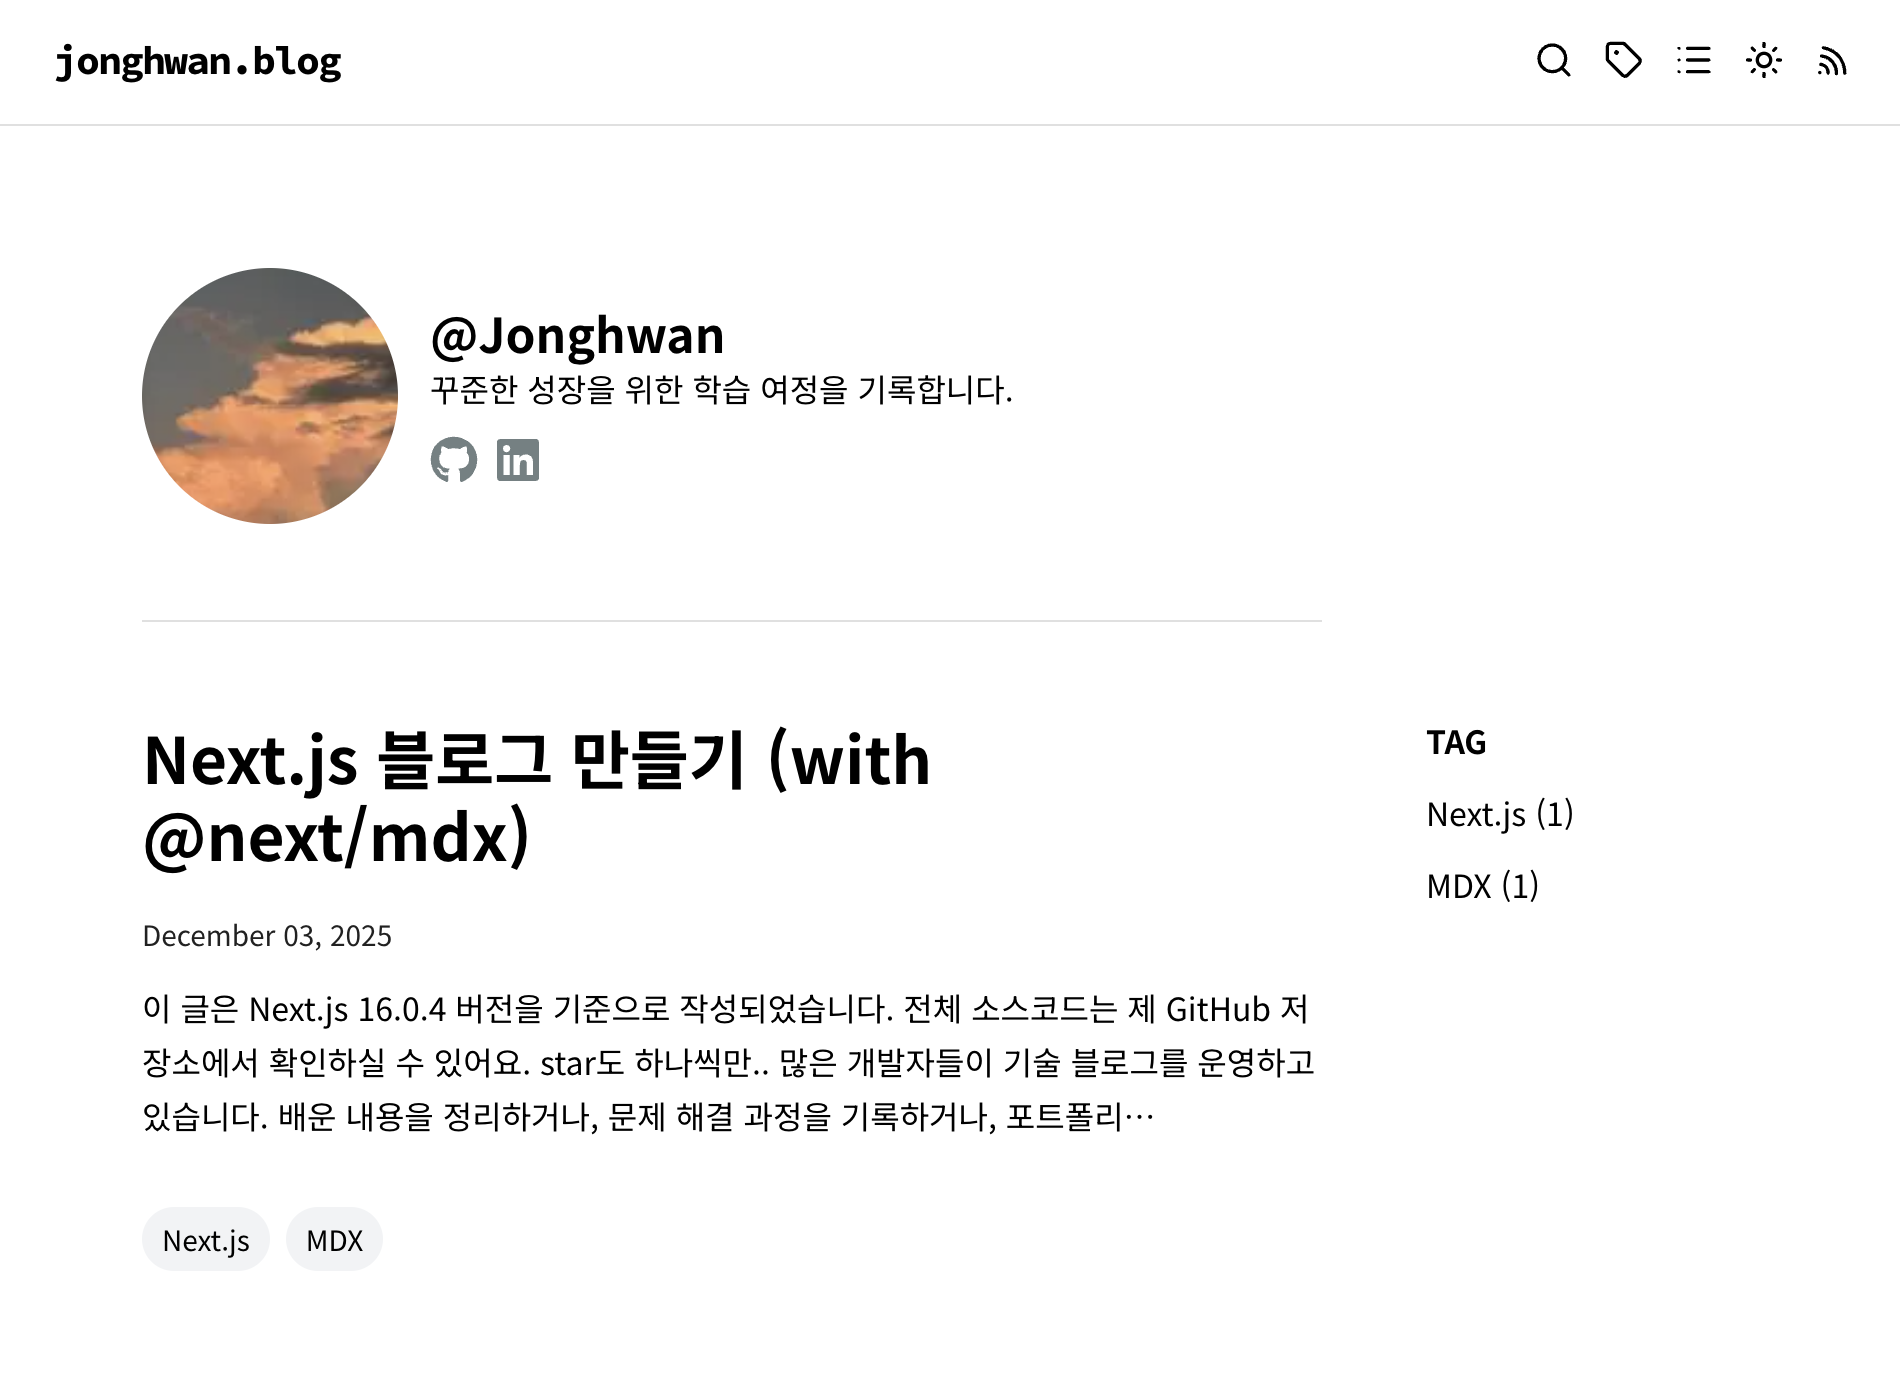
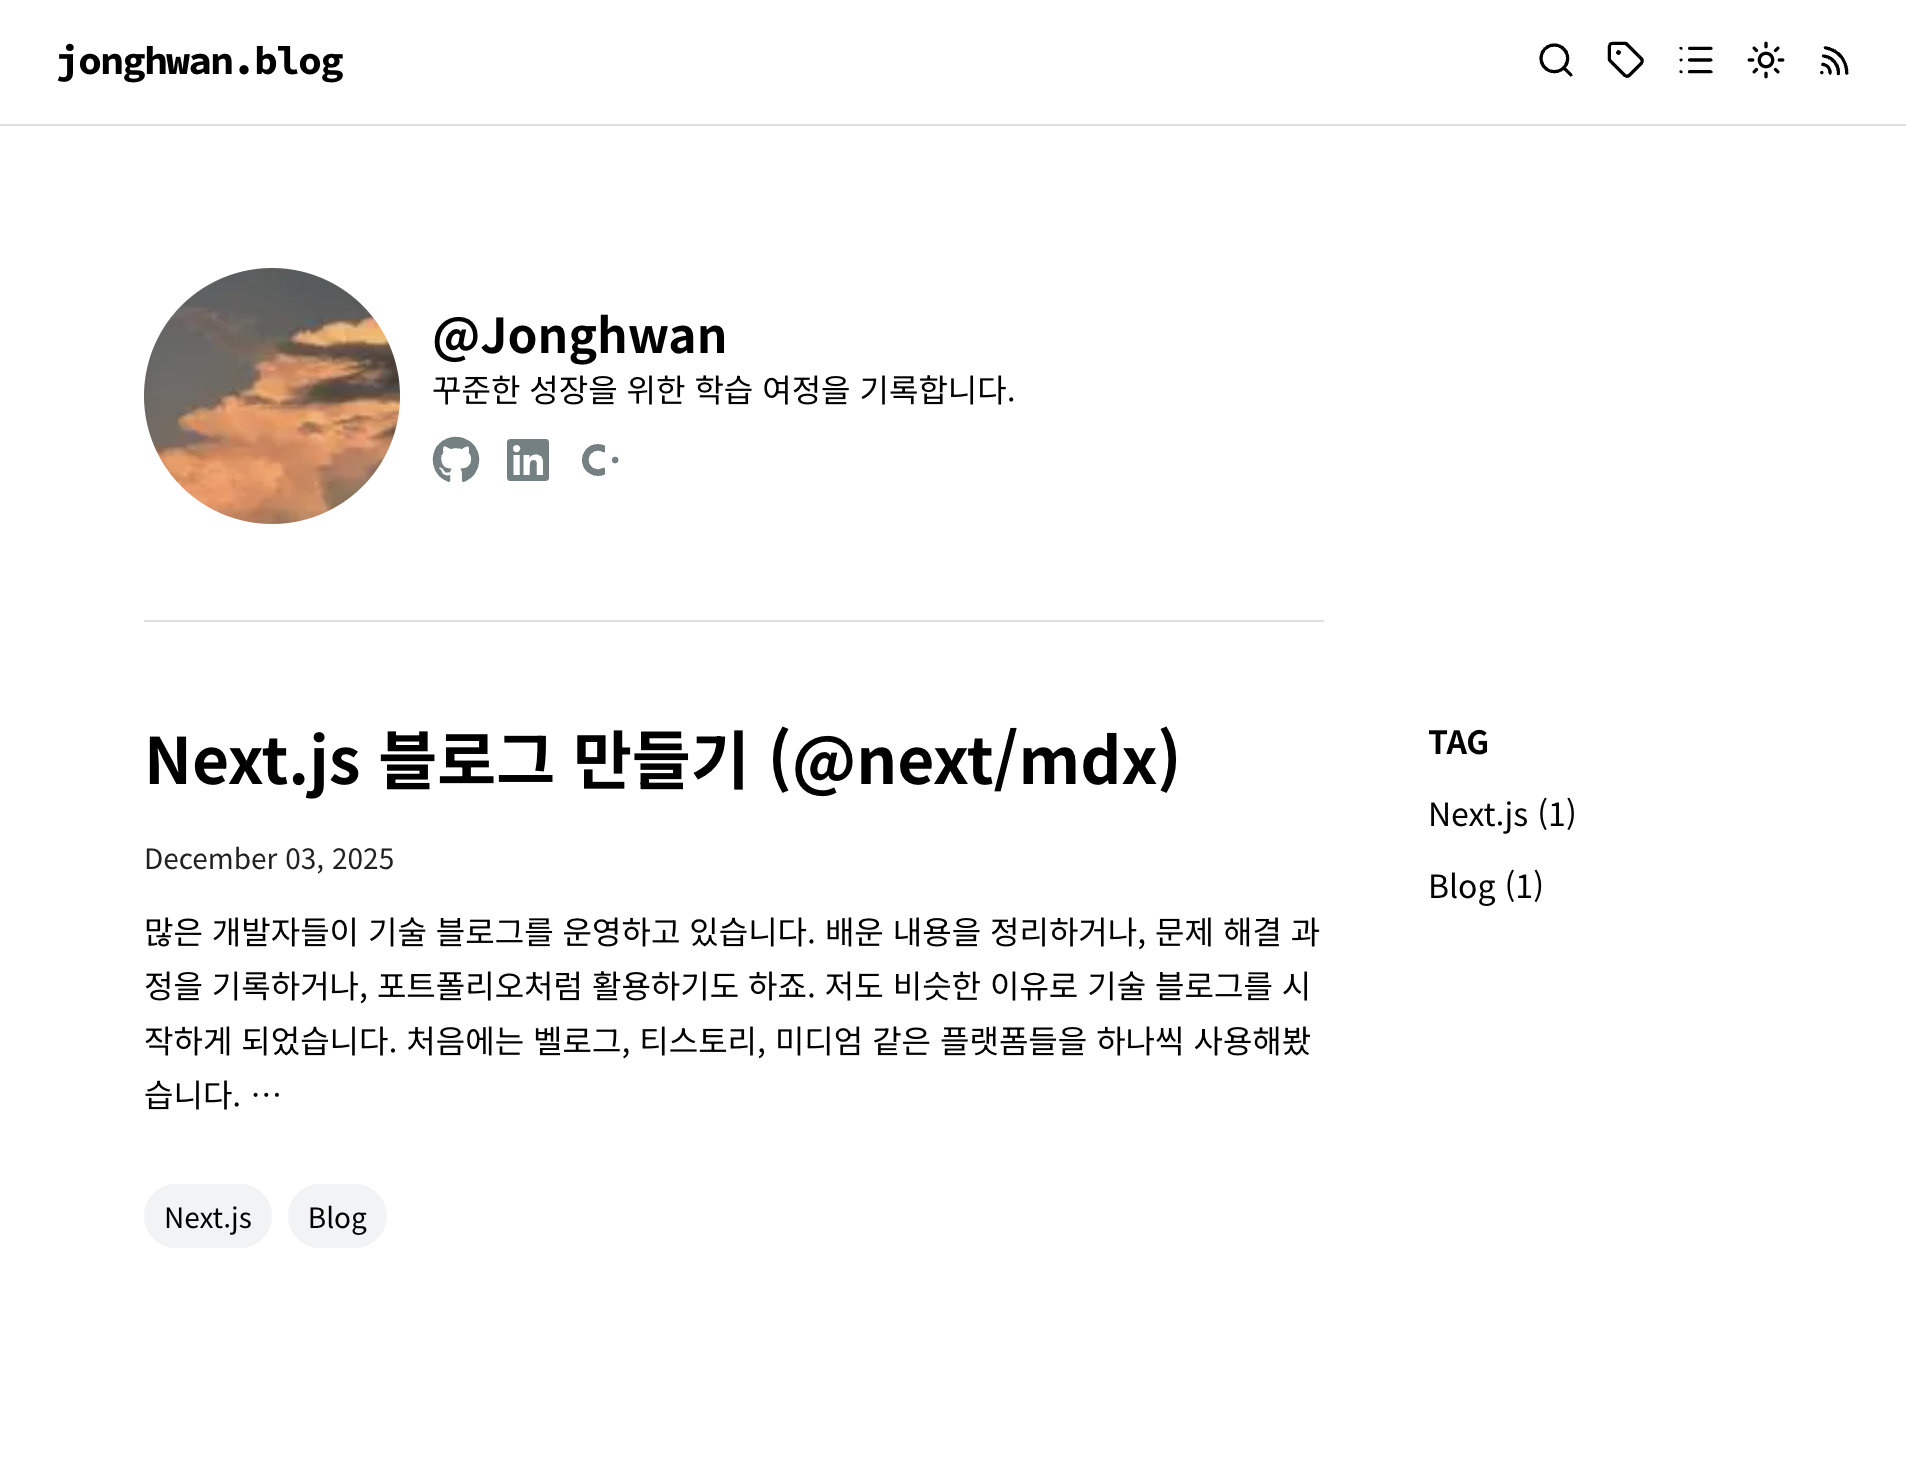
style: refine MDX component styles

diff --git a/mdx-components.tsx b/mdx-components.tsx
@@ -20,7 +20,7 @@ const components: MDXComponents = {
   ),
   p: ({ children, ...props }) => (
     <p
-      className="mb-[2rem] font-nanum-square-round text-[#24292e] leading-[1.9] sm:text-[1.05rem] lg:text-[1.1rem] xl:text-[1.15rem] dark:text-foreground [&_code]:mx-[0.2rem] [&_code]:break-words [&_code]:rounded-[0.4rem] [&_code]:bg-[#e83e8c1a] [&_code]:px-[0.3rem] [&_code]:py-[0.2rem] [&_code]:text-[#e83e8c] [&_code]:text-[0.9em] dark:[&_code]:bg-[#323232] dark:[&_code]:text-[#ff8926]"
+      className="mb-[2rem] font-nanum-square-round text-[#24292e] leading-[1.9] sm:text-[1.05rem] lg:text-[1.1rem] xl:text-[1.15rem] dark:text-foreground [&_code]:mx-[0.2rem] [&_code]:break-words [&_code]:rounded-[0.4rem] [&_code]:bg-[#e9ecef] [&_code]:px-[0.3rem] [&_code]:py-[0.2rem] [&_code]:text-[0.9em] dark:[&_code]:bg-[#30323a]"
       {...props}
     >
       {children}
@@ -28,7 +28,7 @@ const components: MDXComponents = {
   ),
   blockquote: ({ children, ...props }) => (
     <blockquote
-      className="mt-[1.5rem] mb-[2rem] rounded-[0.5rem] border-l-[0.5rem] bg-[#f4f4f4] p-[1rem] dark:bg-[#1a1b1d] [&>p]:mt-[2rem]"
+      className="mt-[1.5rem] mb-[2rem] border-l-[0.4rem] bg-[#f1f3f5] p-[1rem] dark:bg-[#1a1b1d] [&>p]:mt-[2rem]"
       {...props}
     >
       {children}
@@ -46,7 +46,7 @@ const components: MDXComponents = {
   ),
   li: ({ children, ...props }) => (
     <li
-      className="font-nanum-square-round sm:text-[1.05rem] lg:text-[1.1rem] xl:text-[1.15rem] [&>p]:mt-[0.25rem] [&>p]:mb-[0.5rem]"
+      className="font-nanum-square-round marker:text-sm sm:text-[1.05rem] lg:text-[1.1rem] xl:text-[1.15rem] [&>p]:mt-[0.25rem] [&>p]:mb-[0.5rem]"
       {...props}
     >
       {children}
@@ -63,7 +63,7 @@ const components: MDXComponents = {
   a: ({ children, ...props }) => (
     <a
       target="_blank"
-      className="underline decoration-dashed underline-offset-[0.45em] hover:text-accent-foreground"
+      className="underline decoration-wavy underline-offset-[0.4em] hover:text-accent-foreground"
       {...props}
     >
       {children}
